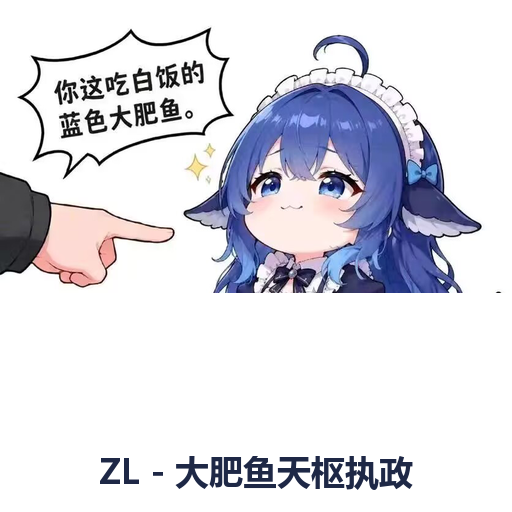
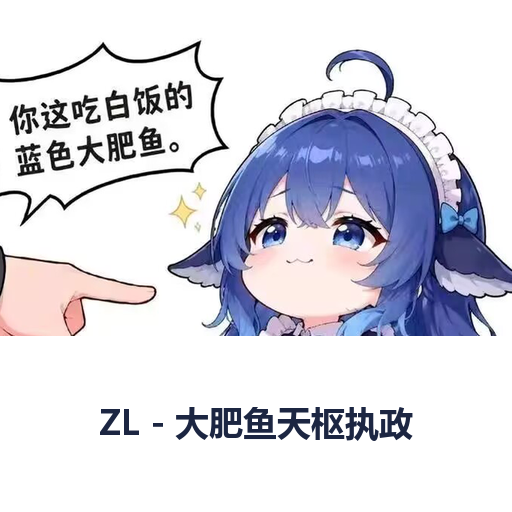
art: 重做创意工坊封面 —— 裁掉底部空白、图片下移、标题居中对齐

diff --git a/tools/make_thumbnail.py b/tools/make_thumbnail.py
@@ -1,0 +1,111 @@
+"""
+make_thumbnail.py —— 生成创意工坊封面（512x512）
+
+输入：thumbnail-source.png（用户提供的原图）
+输出：thumbnail.png
+
+要点（踩过的坑）：
+  · 工坊要求 thumbnail.png、>=512x512、< 1MB
+  · 原图自带白底，且下方有大片空白 —— 必须裁掉，
+    否则合成到方形画布后整体构图偏上、底部空一大块
+  · 图片区域放大一点、标题下移，整体才平衡
+"""
+import os
+from PIL import Image, ImageDraw, ImageFont
+
+
+HERE = os.path.dirname(os.path.abspath(__file__))
+MOD = os.path.dirname(HERE)
+SRC = os.path.join(MOD, "thumbnail-source.png")
+OUT = os.path.join(MOD, "thumbnail.png")
+
+CANVAS = 512
+SCALE = 1.05          # 图片放大系数（>1 表示裁掉更多留白）
+TITLE = "ZL - 大肥鱼天枢执政"
+
+# 裁剪设置：原图下方空白多，切掉一些
+CROP_BOTTOM = 40      # 从底部裁掉的像素
+TOP_MARGIN = 14       # 图片上方留白（太小会显得贴边）
+
+FONTS = [
+    r"C:\Windows\Fonts\msyhbd.ttc",
+    r"C:\Windows\Fonts\msyh.ttc",
+    r"C:\Windows\Fonts\simhei.ttf",
+    r"C:\Windows\Fonts\arialbd.ttf",
+]
+
+
+def load_font(size):
+    for f in FONTS:
+        if os.path.isfile(f):
+            try:
+                return ImageFont.truetype(f, size)
+            except Exception:
+                pass
+    return ImageFont.load_default()
+
+
+def main():
+    if not os.path.isfile(SRC):
+        raise SystemExit("找不到原图: %s" % SRC)
+
+    im = Image.open(SRC).convert("RGB")
+    W, H = im.size
+    print("原图: %dx%d" % (W, H))
+
+    # 1) 底部裁掉一些空白
+    if CROP_BOTTOM > 0 and H - CROP_BOTTOM > 100:
+        im = im.crop((0, 0, W, H - CROP_BOTTOM))
+    W, H = im.size
+    print("裁剪后: %dx%d" % (W, H))
+
+    # 2) 缩放（SCALE 越大，留白越少）
+    nw = int(W * SCALE)
+    nh = int(H * SCALE)
+    im = im.resize((nw, nh), Image.LANCZOS)
+    print("放大后: %dx%d" % (nw, nh))
+
+    # 3) 在 512 高的画布里，图片占约 63%，标题占剩下的部分
+    IMG_AREA = int(CANVAS * 0.63)
+    if nh > IMG_AREA:                      # 太高就等比缩回去
+        k = IMG_AREA / nh
+        nw, nh = int(nw * k), IMG_AREA
+        im = im.resize((nw, nh), Image.LANCZOS)
+    if nw > CANVAS:                        # 太宽就裁中间
+        left = (nw - CANVAS) // 2
+        im = im.crop((left, 0, left + CANVAS, nh))
+        nw = CANVAS
+
+    canvas = Image.new("RGB", (CANVAS, CANVAS), (255, 255, 255))
+    # 图片顶部留一点，避免气泡贴边；其余空间给标题
+    top = TOP_MARGIN
+    canvas.paste(im, ((CANVAS - nw) // 2, top))
+    print("图片放置: (%d, %d)  %dx%d" % ((CANVAS - nw) // 2, top, nw, nh))
+
+    # 4) 标题：垂直居中在图片下方的空白里
+    d = ImageDraw.Draw(canvas)
+    space_top = top + nh
+    space_h = CANVAS - space_top
+    size = 34
+    font = load_font(size)
+    bbox = d.textbbox((0, 0), TITLE, font=font)
+    tw = bbox[2] - bbox[0]
+    while tw > CANVAS - 40 and size > 16:
+        size -= 2
+        font = load_font(size)
+        bbox = d.textbbox((0, 0), TITLE, font=font)
+        tw = bbox[2] - bbox[0]
+    th = bbox[3] - bbox[1]
+    ty = space_top + (space_h - th) // 2 - bbox[1]
+    d.text(((CANVAS - tw) // 2 - bbox[0], ty), TITLE, font=font, fill=(28, 38, 66))
+    print("标题: y=%d  字号=%d  下方空间=%dpx" % (ty, size, space_h))
+
+    canvas.save(OUT, "PNG")
+    kb = os.path.getsize(OUT) / 1024
+    print("输出: %s  %.1f KB  %dx%d" % (OUT, kb, canvas.width, canvas.height))
+    assert canvas.size == (CANVAS, CANVAS)
+    assert os.path.getsize(OUT) < 1024 * 1024
+
+
+if __name__ == "__main__":
+    main()
